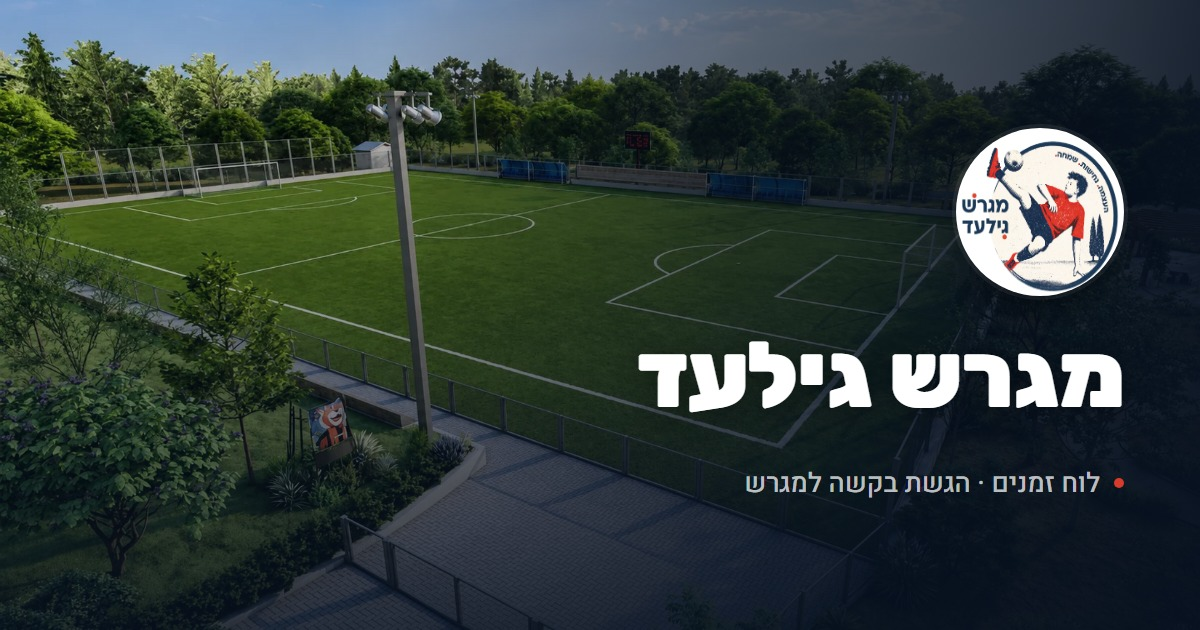
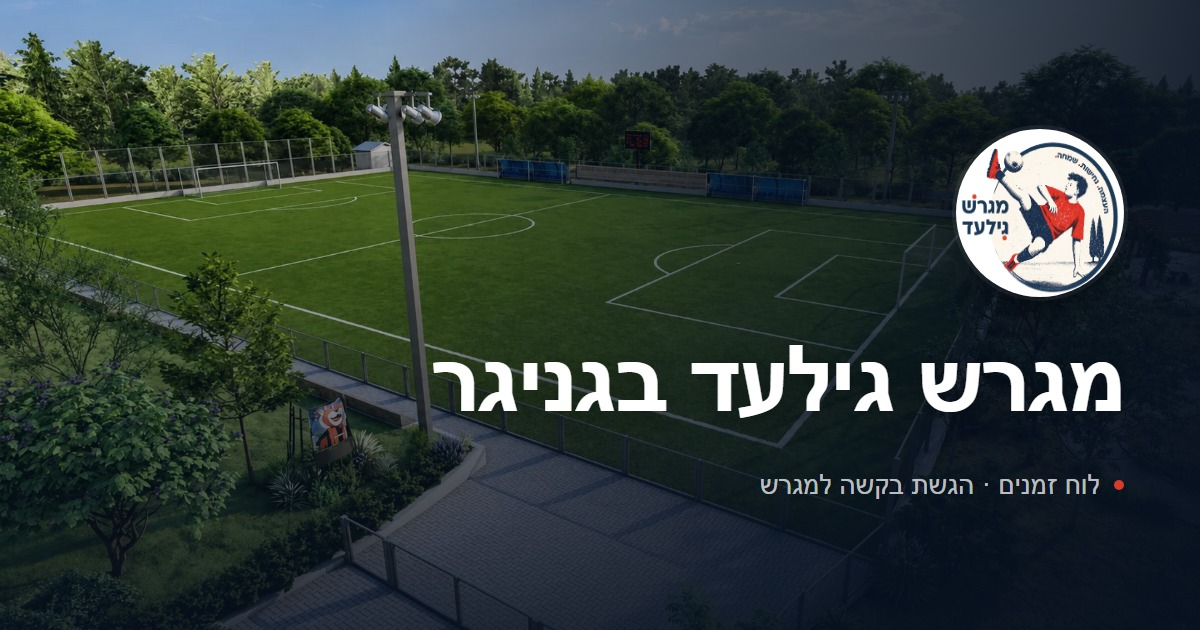
update

Changed region(s): [[0.3392, 0.5429, 0.9558, 0.6635], [0.8017, 0.2111, 0.925, 0.4825], [0.6167, 0.754, 0.9558, 0.7841]]

diff --git a/app/(public)/page.tsx b/app/(public)/page.tsx
@@ -195,10 +195,14 @@ function AboutSection() {
         <Reveal className="order-2 lg:order-1">
           <p className="text-sm font-semibold text-primary-600">{t('about.eyebrow')}</p>
           <h2 className="mt-3 text-display">{t('about.title')}</h2>
-          <p className="mt-5 text-(--ink-muted)">{t('about.lead')}</p>
-          <p className="mt-5 text-(--ink-muted)">{t('about.body_1')}</p>
-          <p className="mt-4 text-(--ink-muted)">{t('about.body_2')}</p>
-          <p className="mt-4 text-(--ink-muted)">{t('about.body_3')}</p>
+          <div className="mt-5 space-y-3 text-(--ink-muted)">
+            <p>{t('about.lead')}</p>
+            <p>{t('about.body_1')}</p>
+            <p>{t('about.body_2')}</p>
+            <p>{t('about.body_3')}</p>
+            <p>{t('about.body_4')}</p>
+            <p>{t('about.body_5')}</p>
+          </div>
         </Reveal>
 
         <Reveal className="order-1 lg:order-2">
